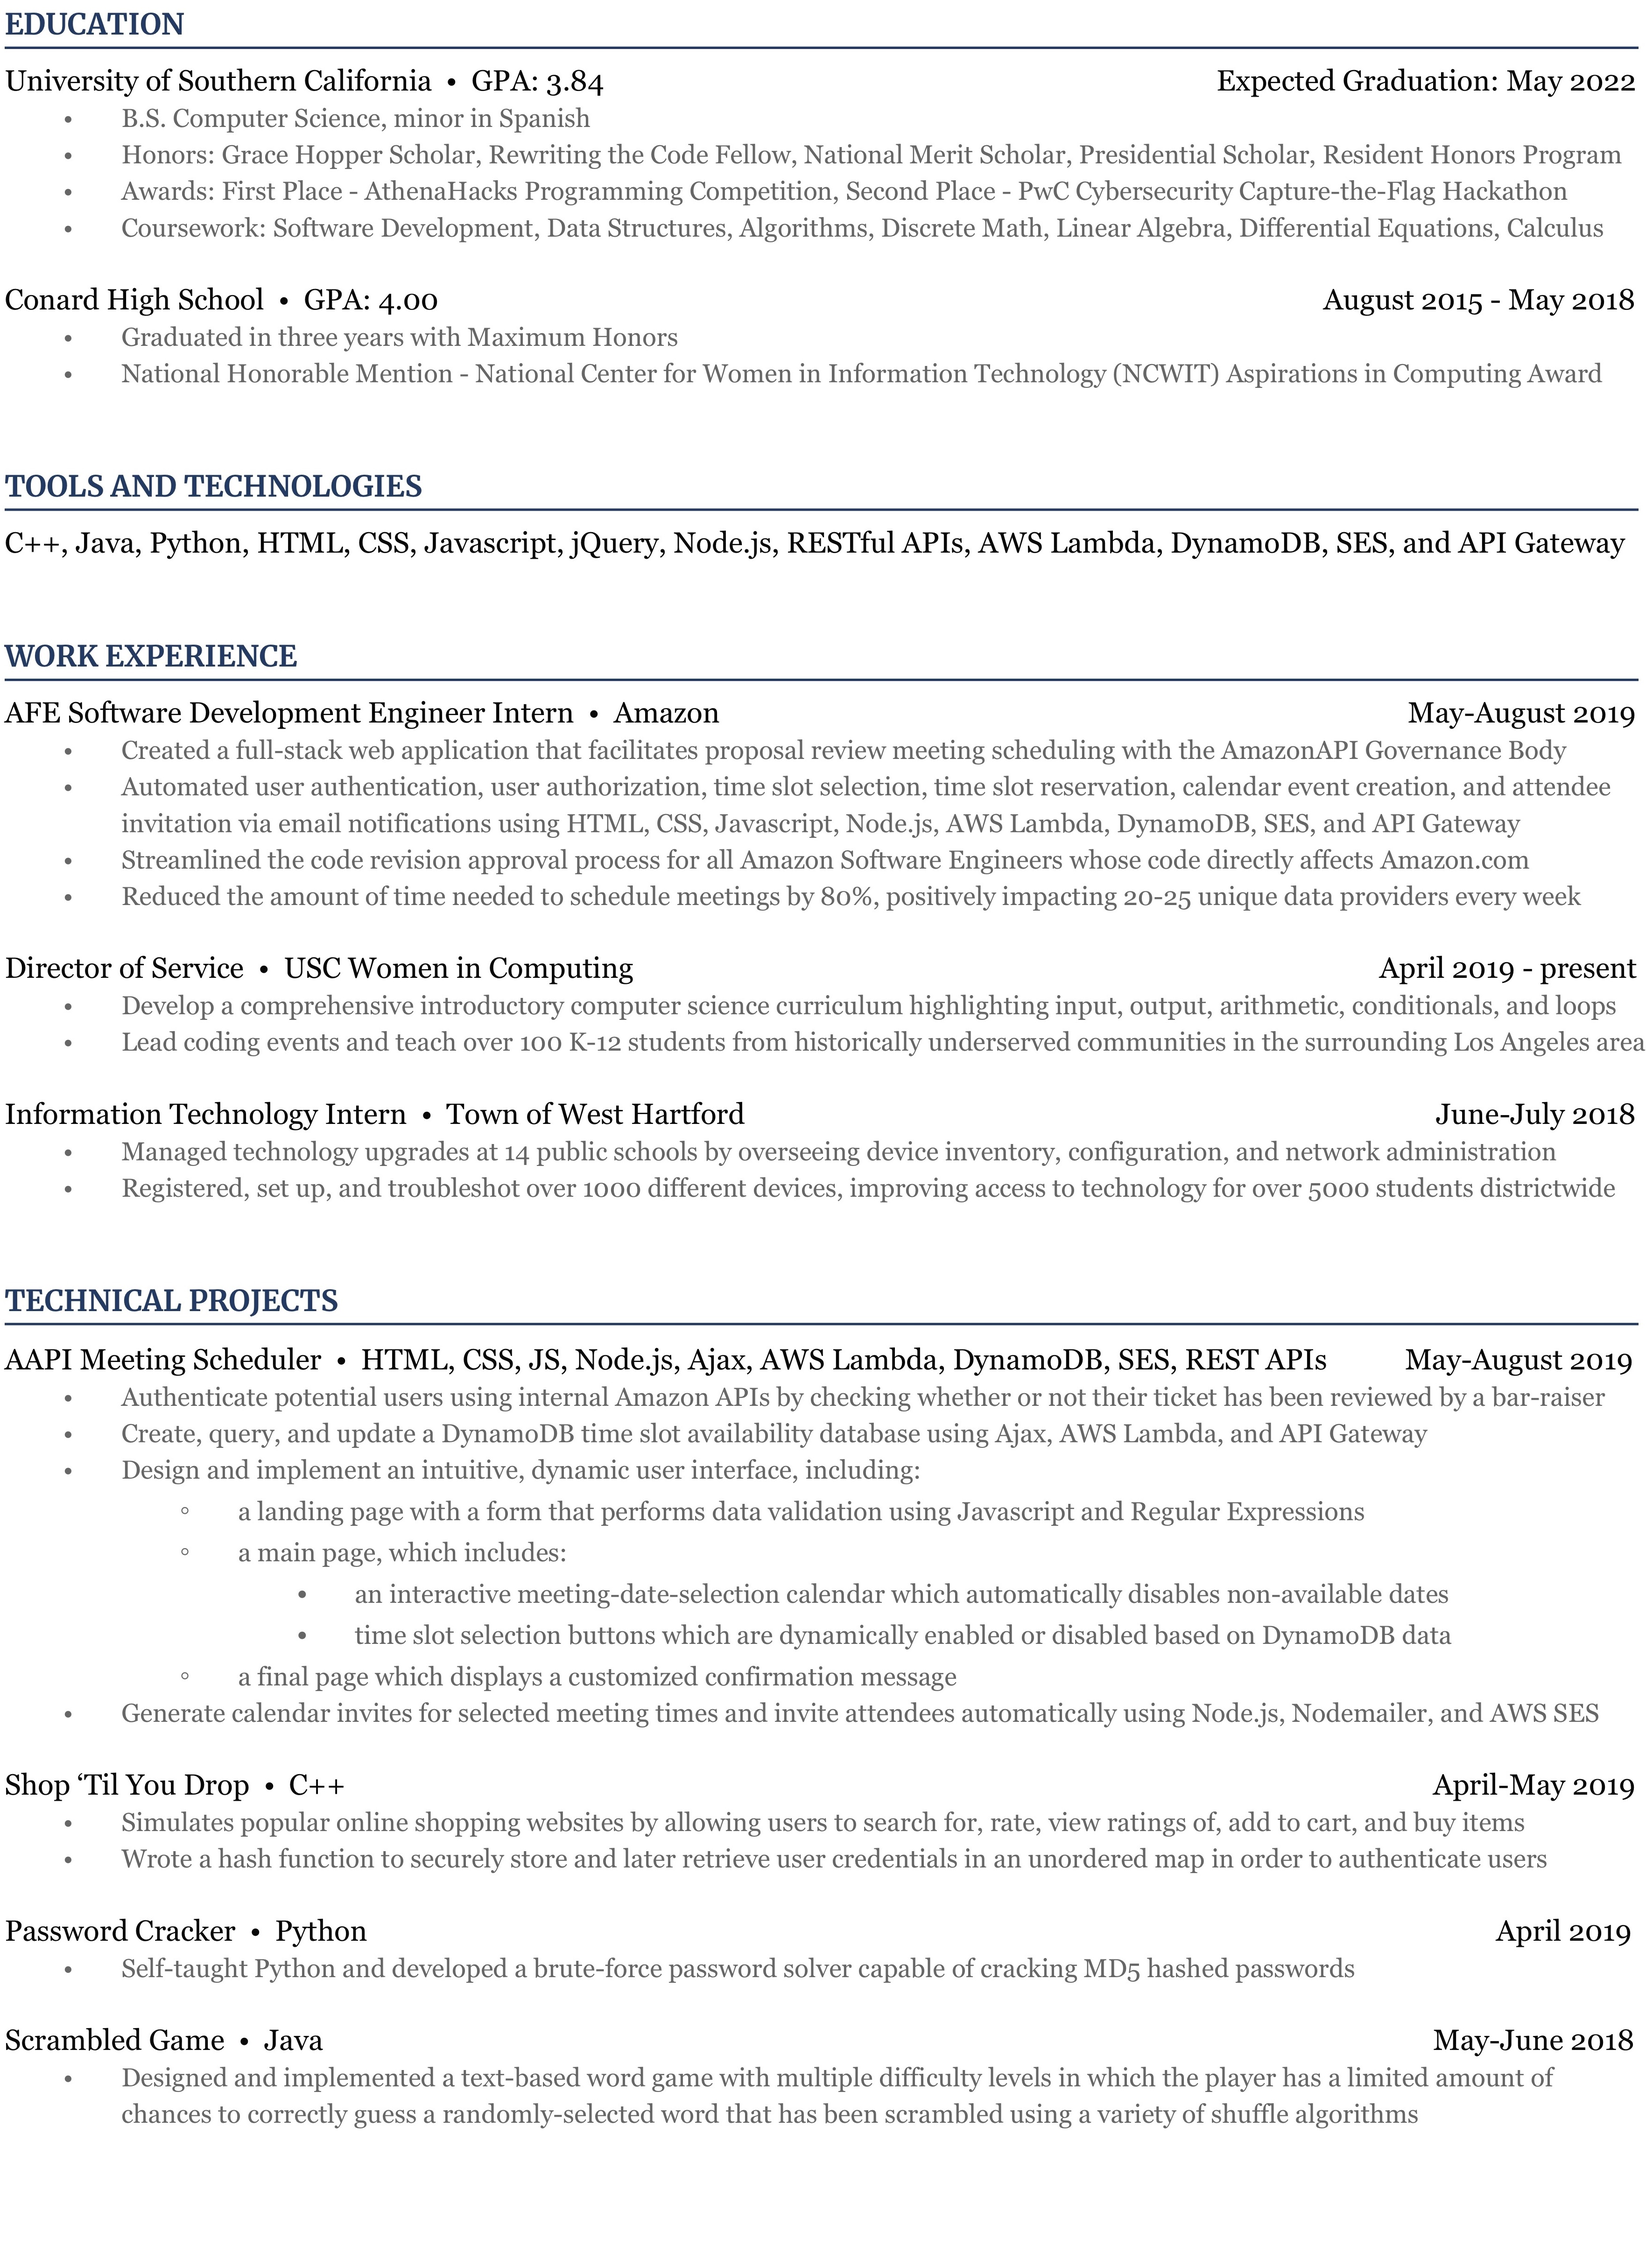
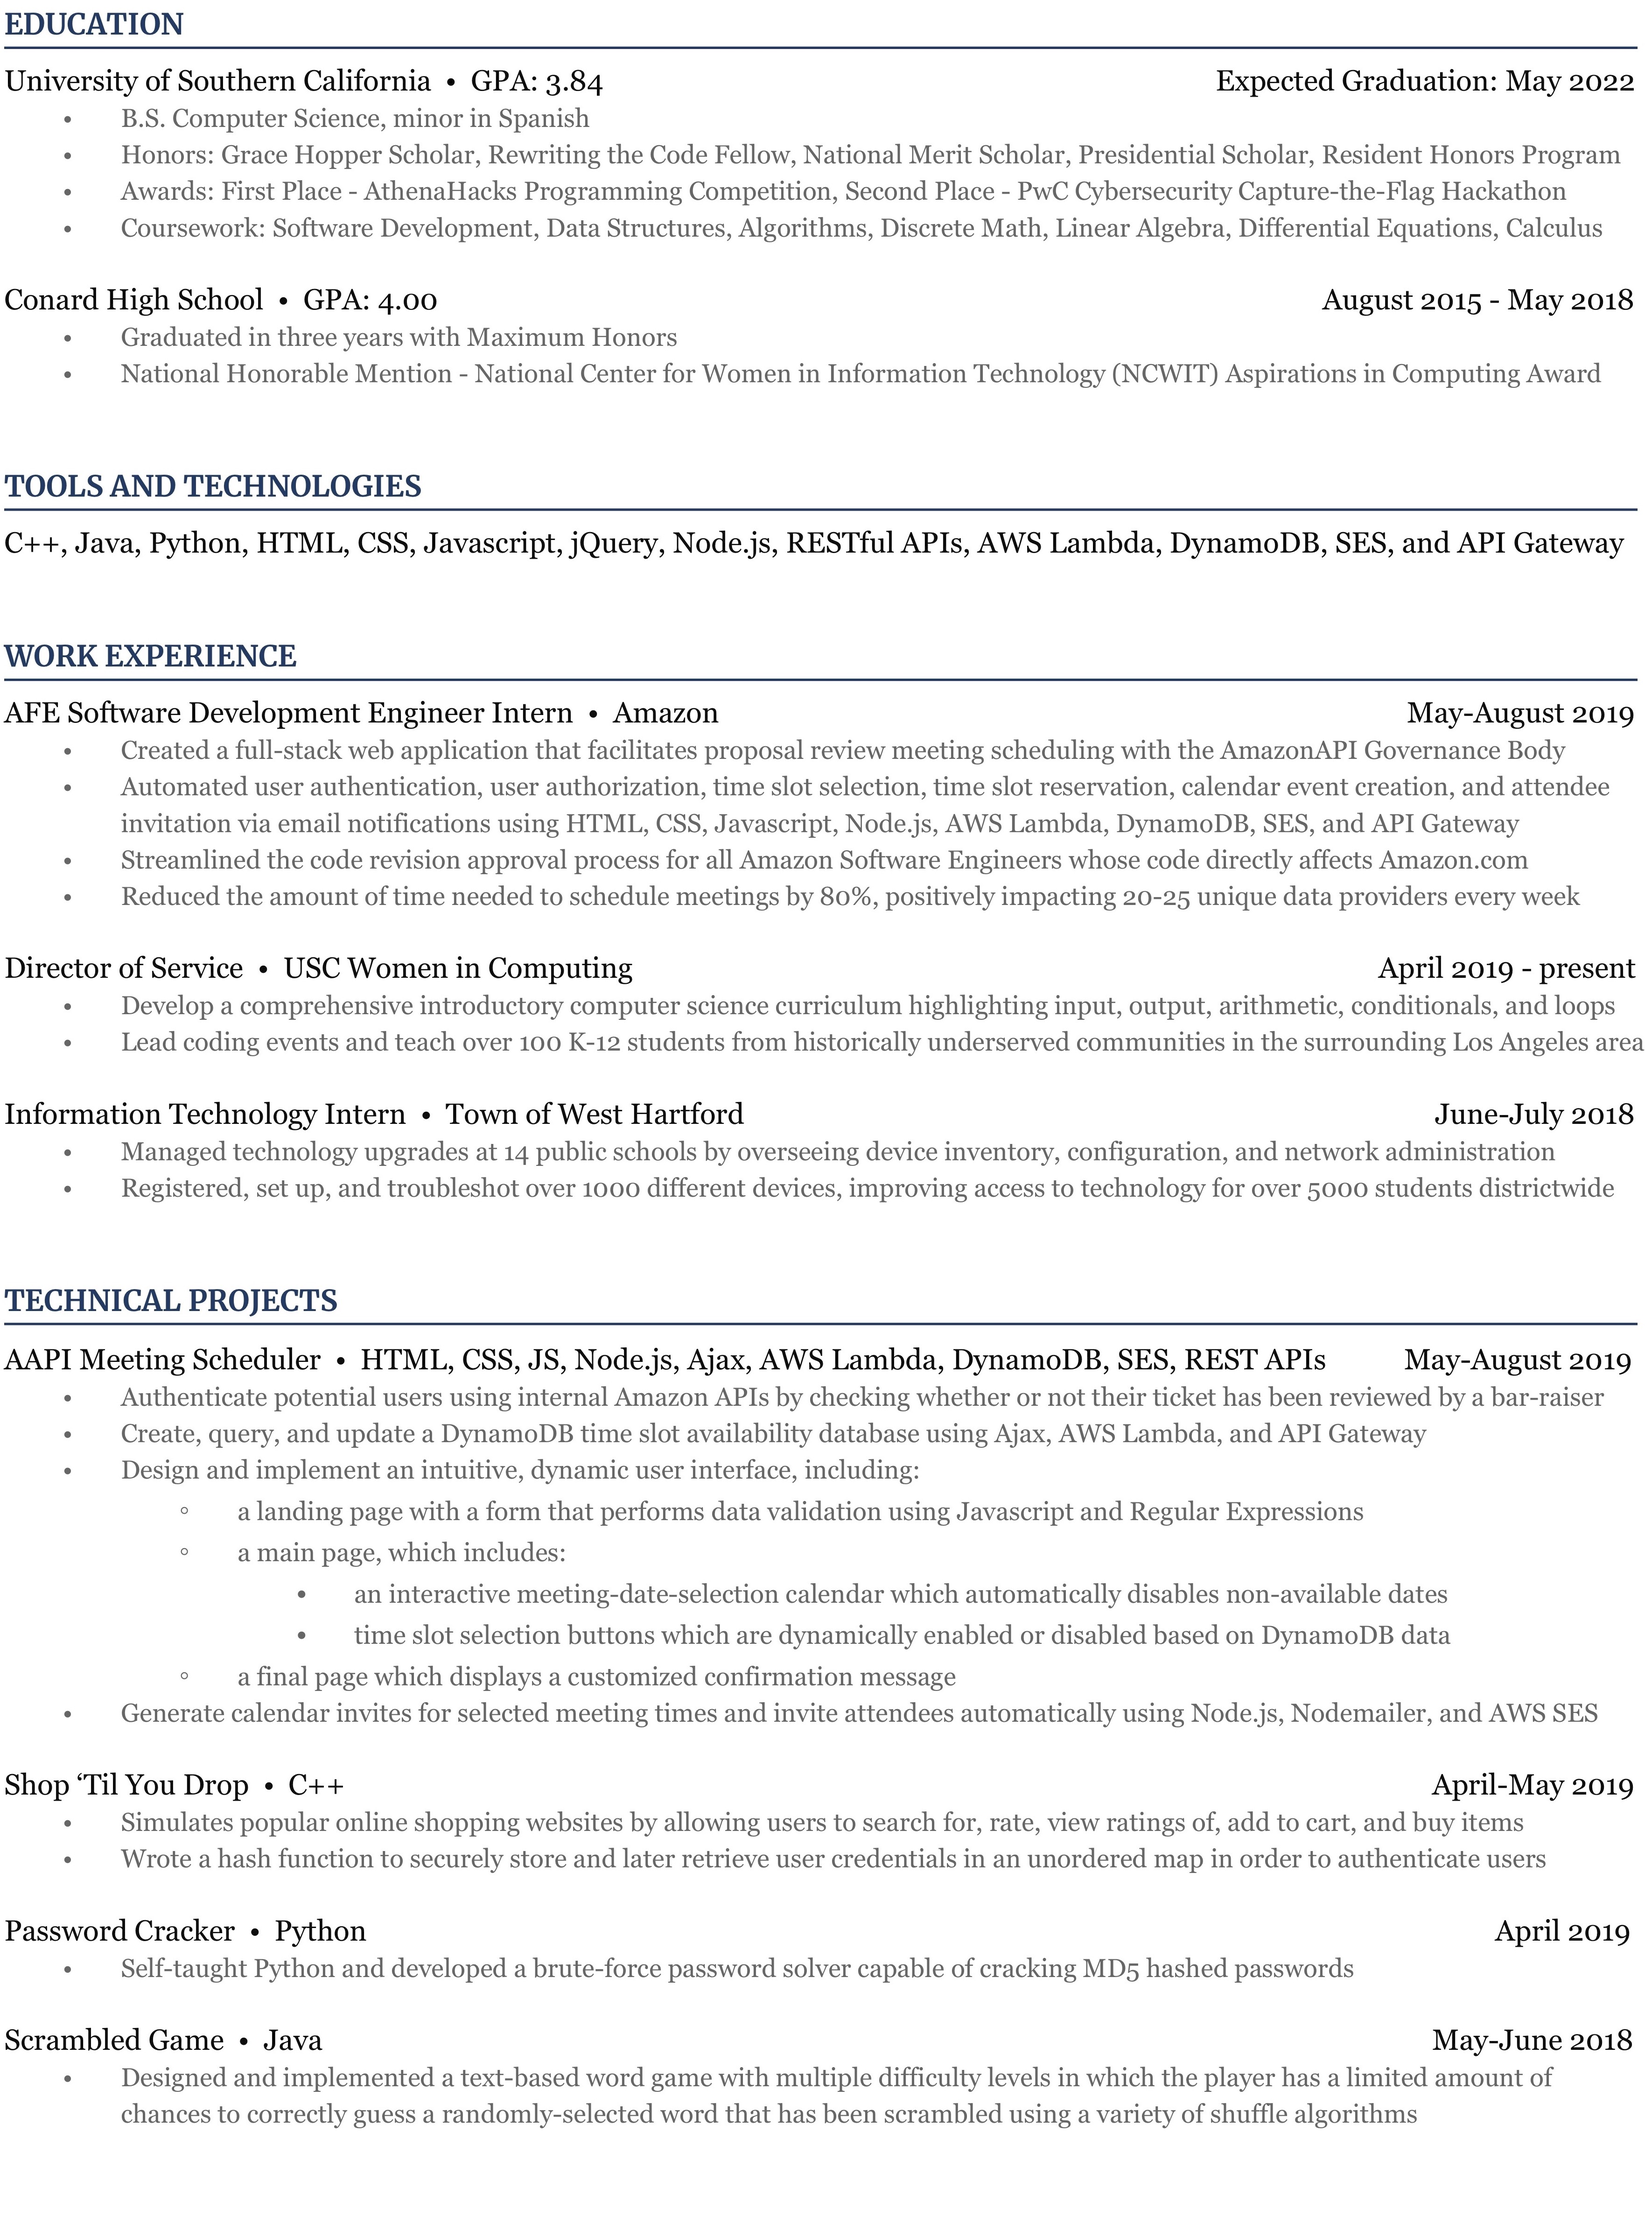
added dark resume for dark mode

diff --git a/basic.js b/basic.js
@@ -1,5 +1,6 @@
 var links;
-var lightModeOn;
+var darkModeOn;
+var currentPageName;
 
 // on page load
 $(function(){
@@ -9,8 +10,9 @@ $(function(){
   // alert(window.location.pathname);
   var pattern = new RegExp("[^/]+$");
   var page = pattern.exec(window.location.pathname);
+  currentPageName = page[0];
   $('ul li a').each(function() {
-    if($(this).attr("href")===page[0]){
+    if($(this).attr("href")===currentPageName){
       $(this).css("color", "#D77771");
     }
     else{
@@ -28,10 +30,18 @@ $("#slider").change(function(){
     //turn on light mode
     document.getElementById("light-css").disabled = false;
     document.getElementById("dark-css").disabled = true;
+    if(currentPageName=="resume.html"){
+      $("#resume-picture").attr("src", "DeLaCruz_Ava.jpeg");
+    }
   }
   else{
     //turn on dark mode
     document.getElementById("light-css").disabled = true;
     document.getElementById("dark-css").disabled = false;
+    //if on dark mode and on resume page, load dark resume
+    if(currentPageName=="resume.html"){
+      $("#resume-picture").attr("src", "DeLaCruz_Ava_Dark.jpeg");
+    }
+
   }
 })

diff --git a/resume.html b/resume.html
@@ -46,7 +46,7 @@
 			<h2 class="first-paragraph">RÉSUMÉ</h2>
 			<h3>Thank you for taking the time to review my resume.</h3>
 			<p>For the downloadable PDF version, click <a href="DeLaCruz_Ava.pdf" download>here</a>.</p>
-	    <img class="resume-display" src="DeLaCruz_Ava.jpeg" alt="My Resume">
+	    <img class="resume-display" src="DeLaCruz_Ava.jpeg" alt="My Resume" id="resume-picture">
 
 		</div>
 
